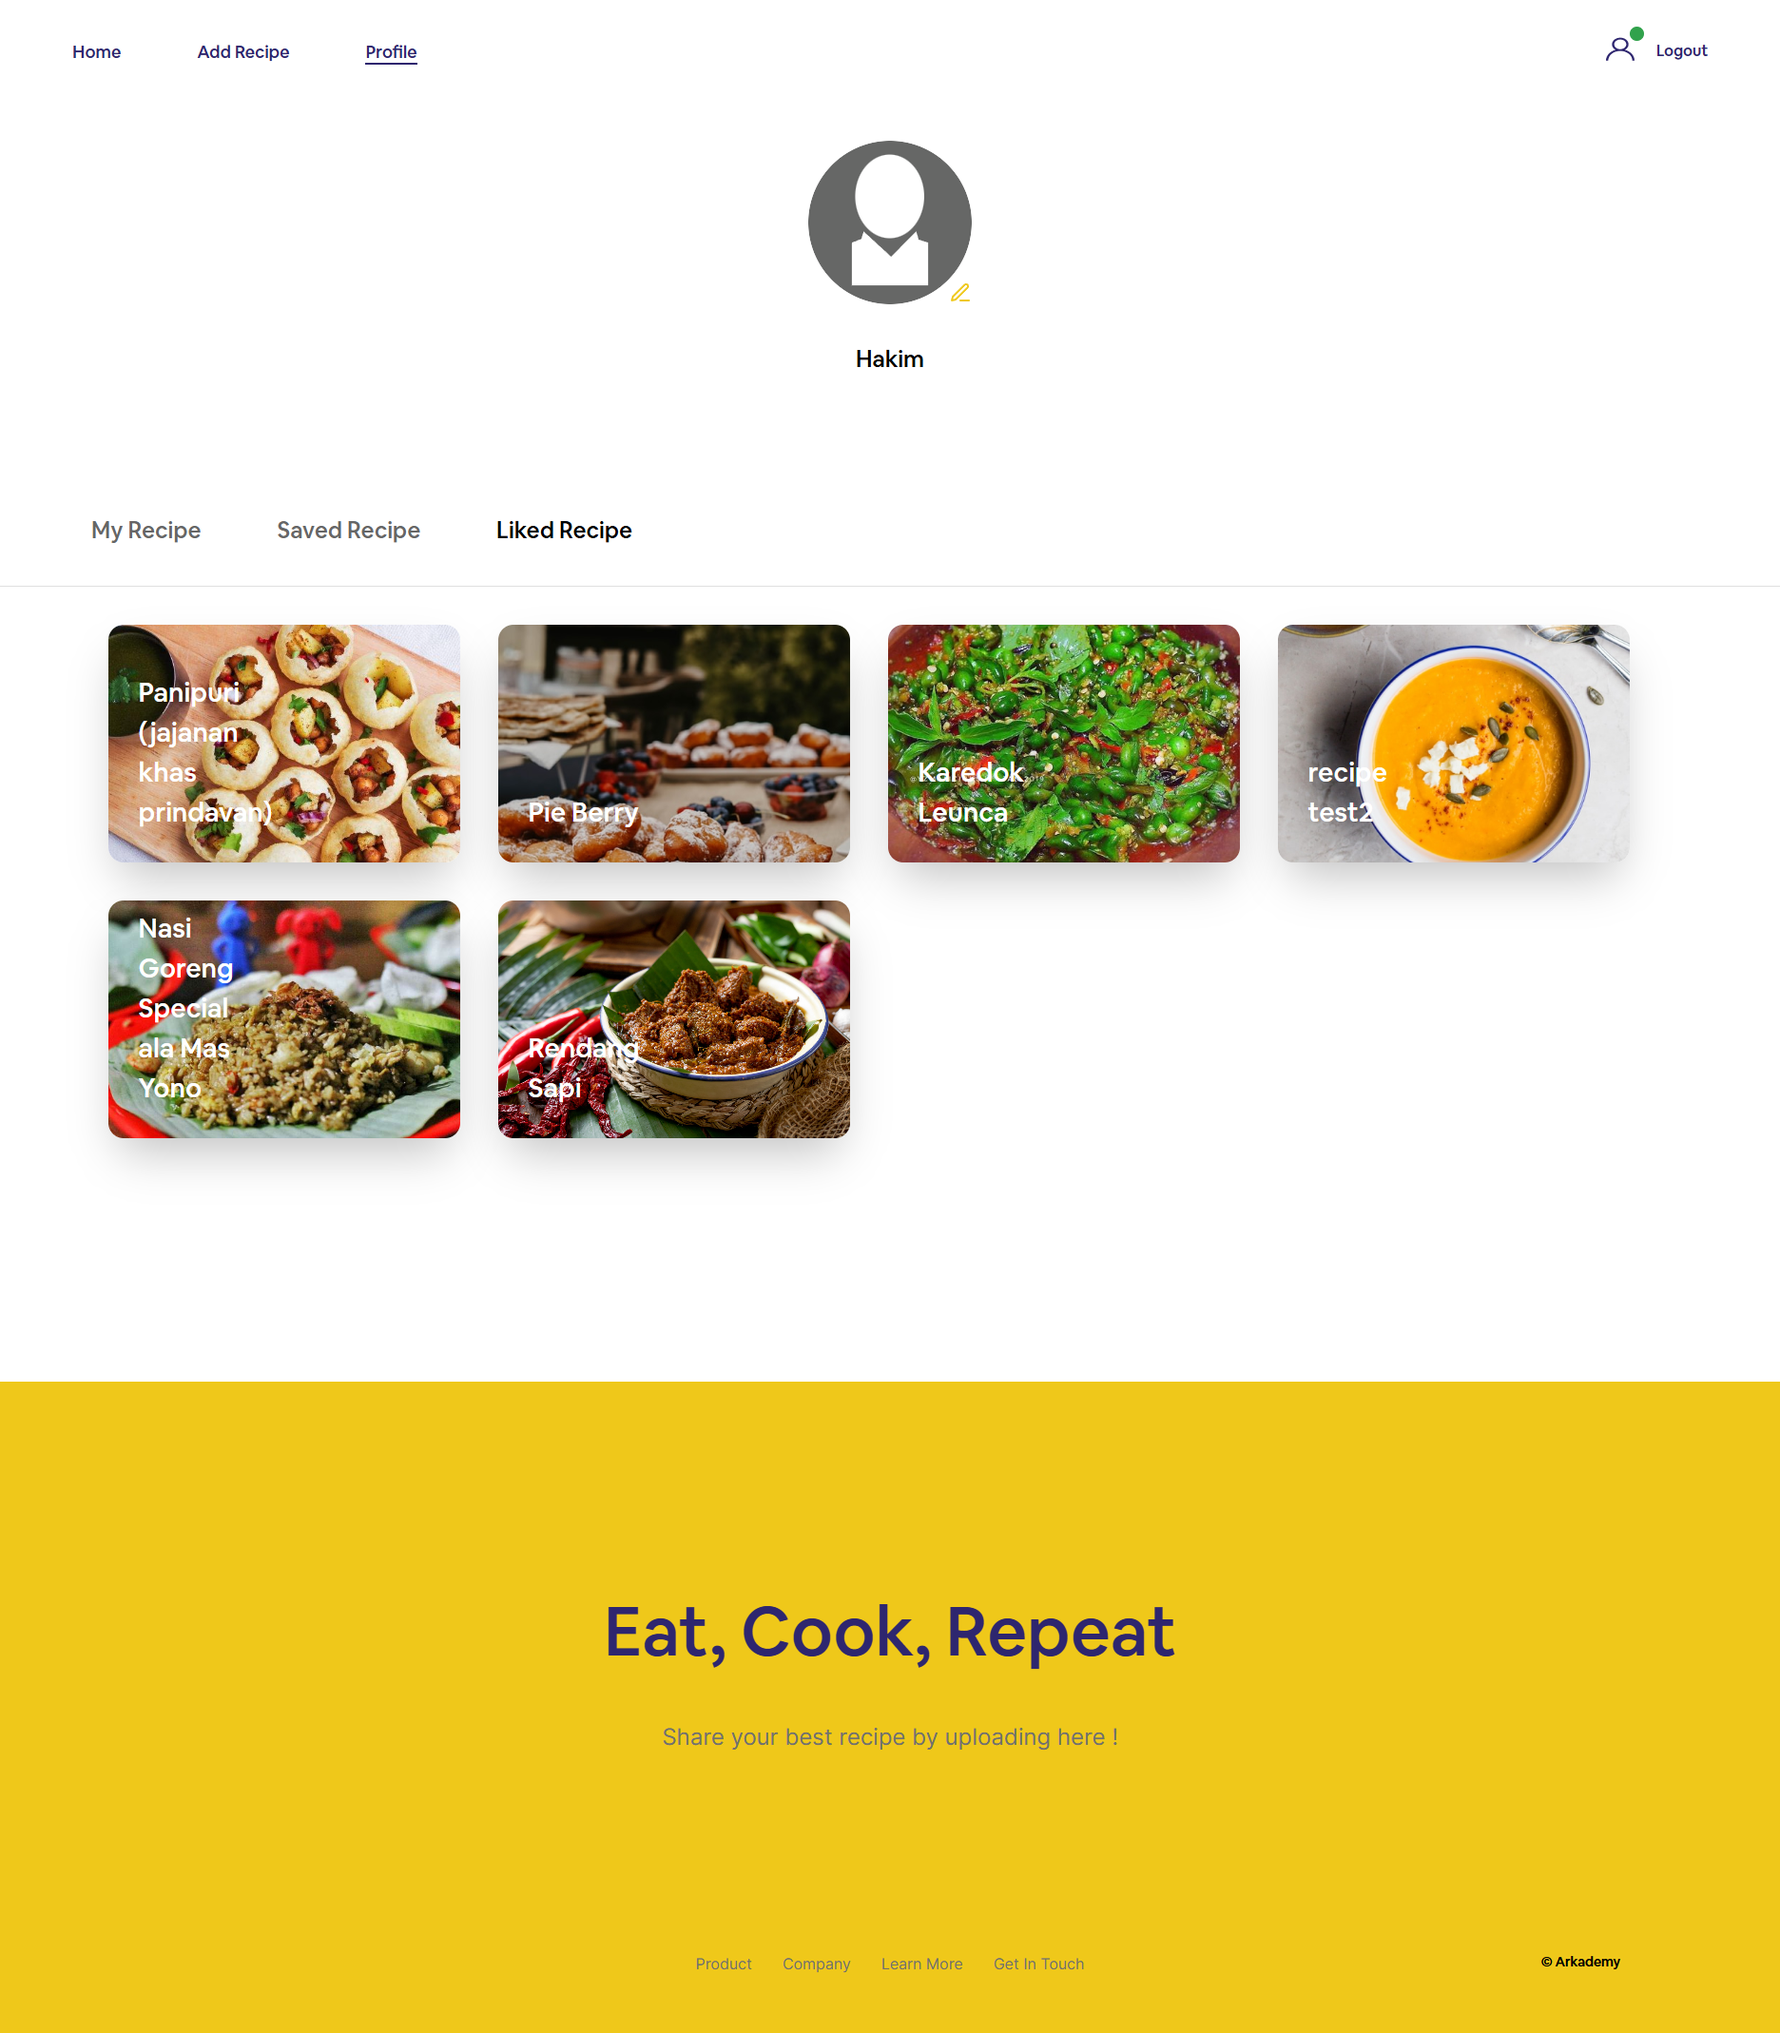
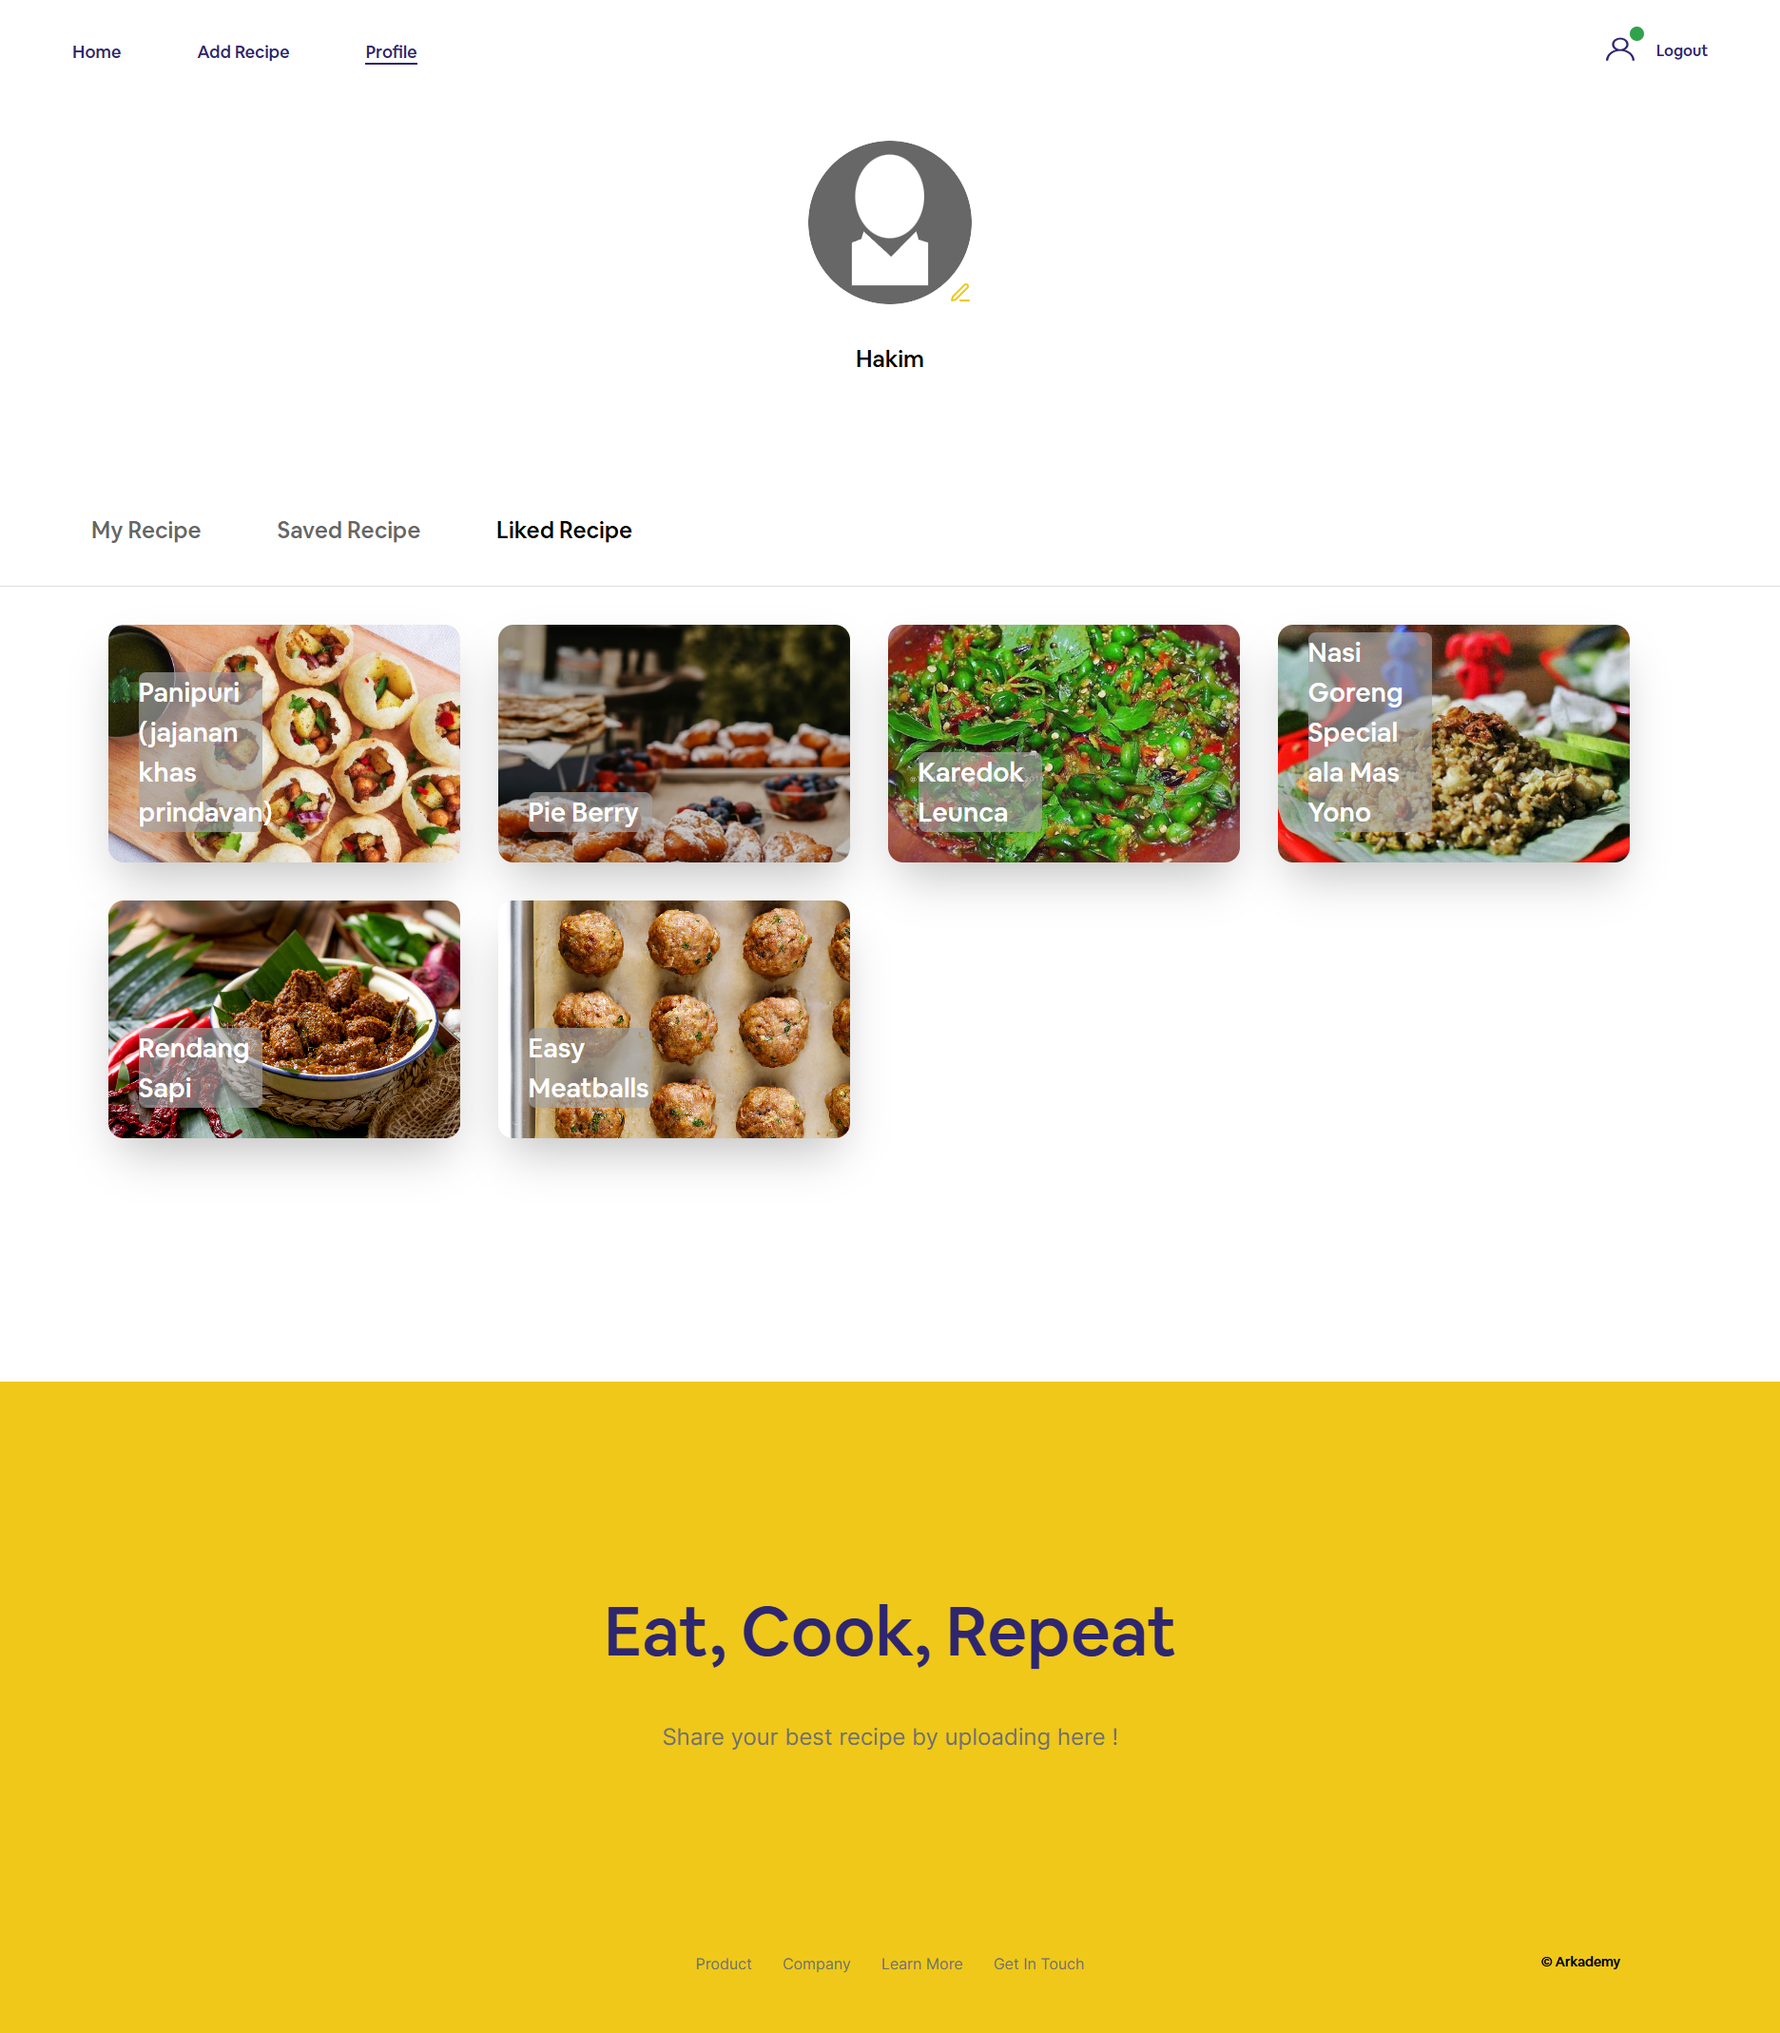
Add overlay for text in ProfileRecipeCard component and replace screenshots of profile for README.md

Changed region(s): [[0.062, 0.3087, 0.4957, 0.5865], [0.7126, 0.3087, 0.9295, 0.4322], [0.4957, 0.3704, 0.5887, 0.4322]]

diff --git a/src/components/modules/ProfileRecipeCard.jsx b/src/components/modules/ProfileRecipeCard.jsx
@@ -34,7 +34,7 @@ const ProfileRecipeCard = ({imageURL, recipeName="Recipe Name", id}) => {
       ) : (
         <img src={imgURL} alt={imageURL} className='absolute w-full h-full rounded-2xl object-cover' />
       )}
-        <p className='w-[130px] font-air font-medium text-[28px] text-[#FFFFFF] ml-8 mb-8 relative'>{recipeName}</p>
+        <p className='w-[130px] font-air font-medium text-[28px] text-[#FFFFFF] ml-8 mb-8 relative bg-[#A2A3A5AA] rounded-lg'>{recipeName}</p>
     </div>
   )
 }
